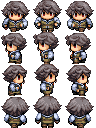
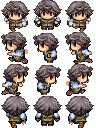
Player Run Sprite Sheet
Here is the player's run sprite sheet. Now the player is running instead
of walking. I do however think it may be too slow for running, let me
know what you guys think.

diff --git a/src/entities.js b/src/entities.js
@@ -194,10 +194,10 @@ Crafty.c('Npc', {
 Crafty.c('Player', {
 	init: function() {
 
-		var animationDuration = 400; //ms
+		var animationDuration = 480; //ms
 		
 		this.requires('Actor, Color, MoveAndCollide, sprite_player, SpriteAnimation, Solid')
-			.fourway(2) // Use an even whole number so we can pass pixel-perfect narrow passages
+			.fourway(4) // Use an even whole number so we can pass pixel-perfect narrow passages
 			.color('rgba(0, 0, 0, 0)')		
 			.stopOnSolids()
 			
